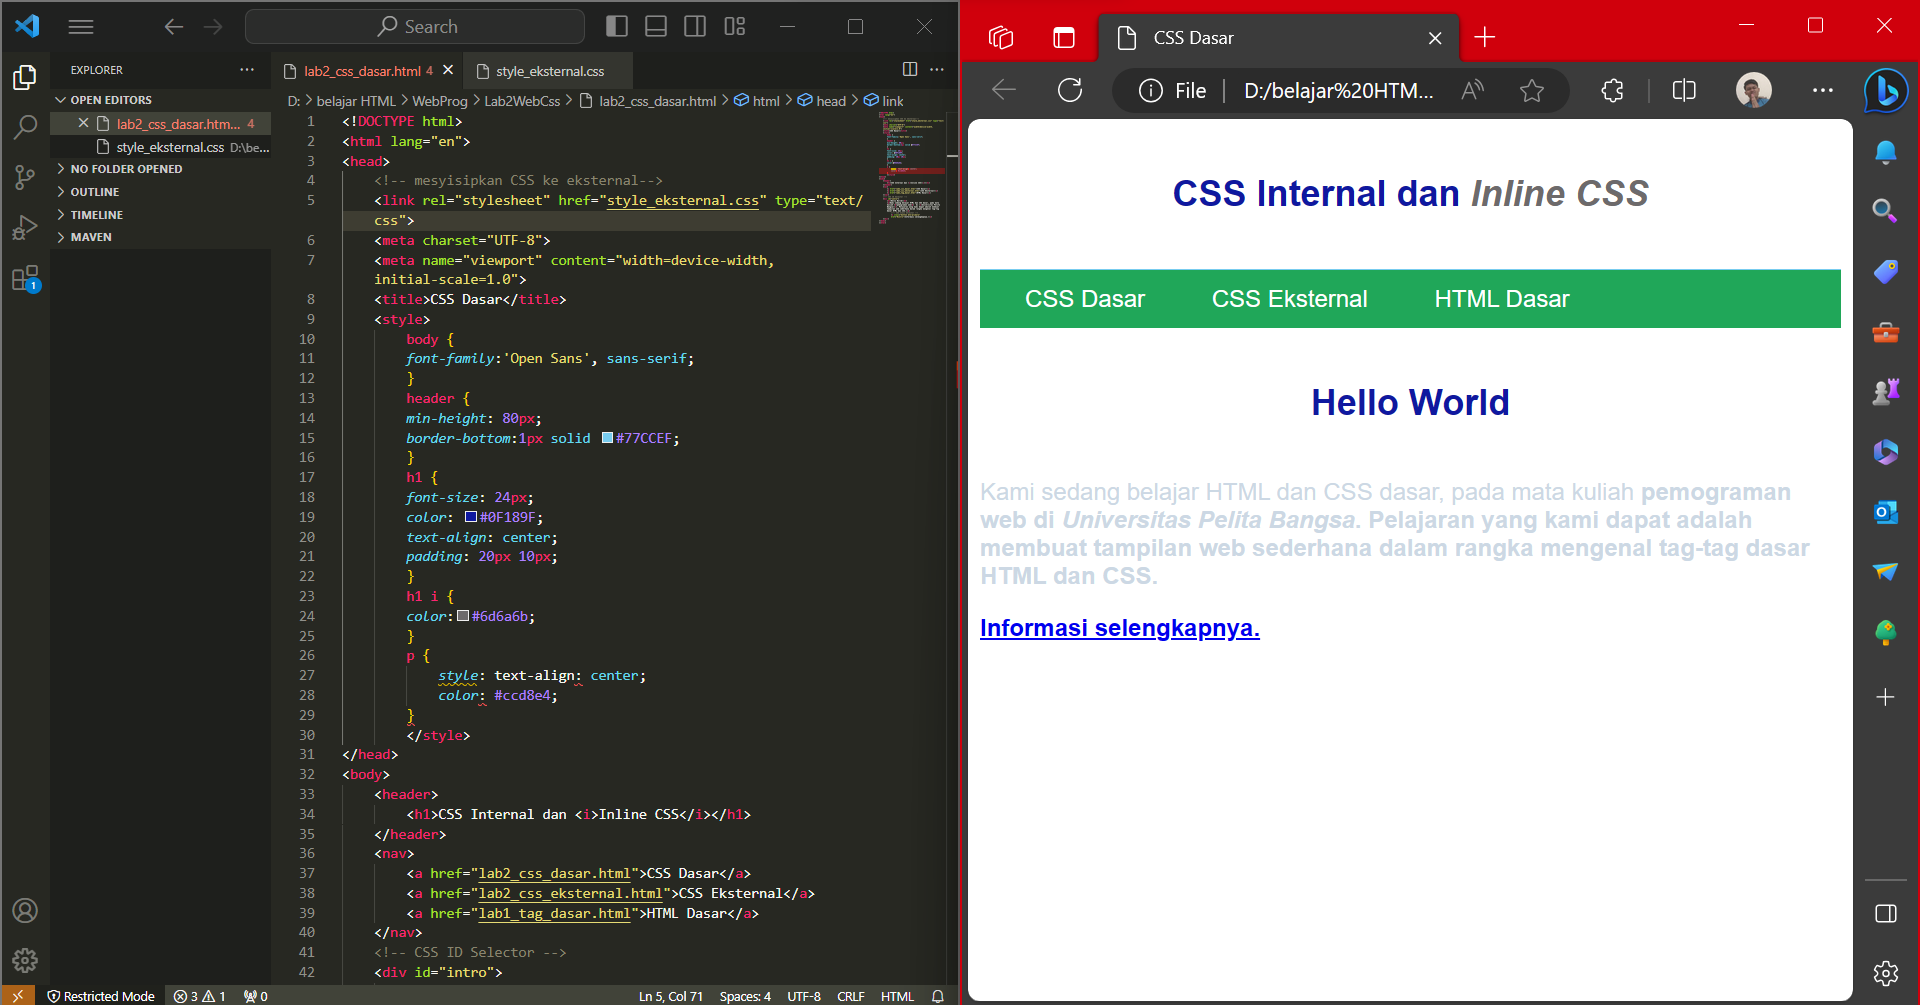
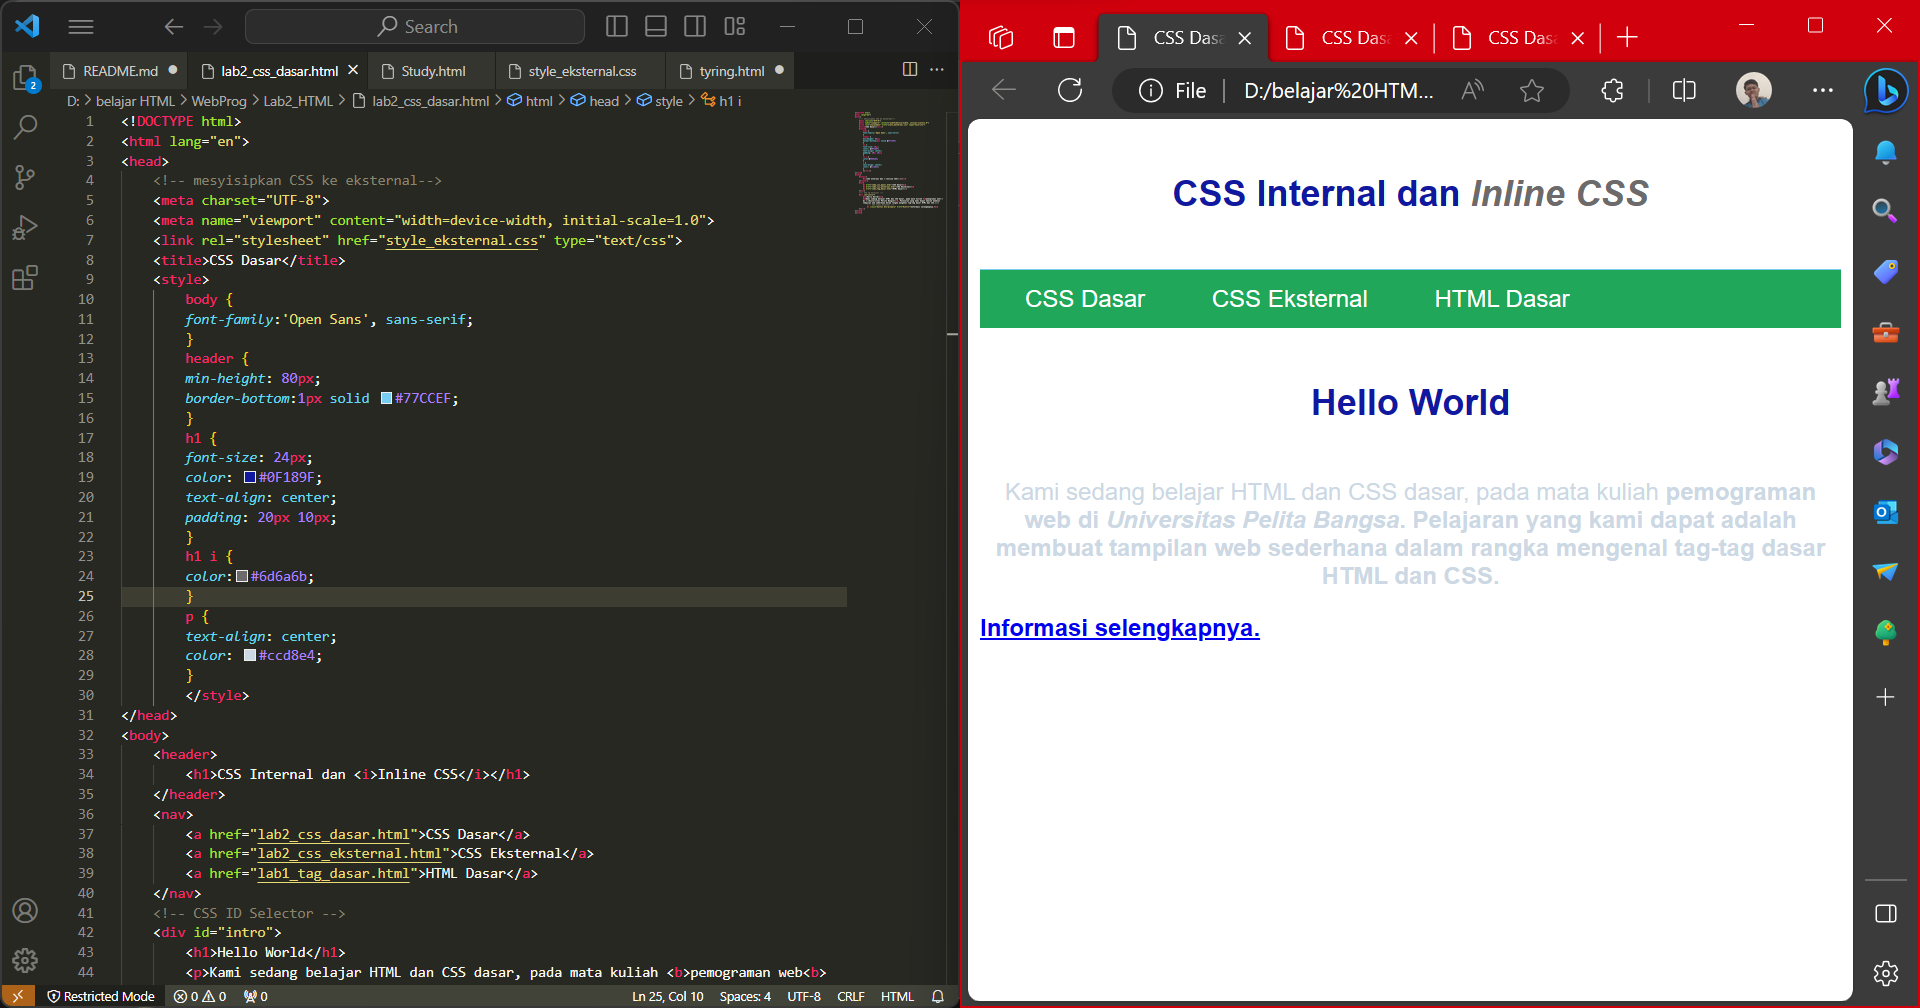
File Project

diff --git a/lab2_css_dasar.html b/lab2_css_dasar.html
@@ -2,9 +2,9 @@
 <html lang="en">
 <head>
     <!-- mesyisipkan CSS ke eksternal-->
-    <link rel="stylesheet" href="style_eksternal.css" type="text/css">
     <meta charset="UTF-8">
     <meta name="viewport" content="width=device-width, initial-scale=1.0">
+    <link rel="stylesheet" href="style_eksternal.css" type="text/css">
     <title>CSS Dasar</title>
     <style>
         body {
@@ -24,7 +24,7 @@
         color:#6d6a6b;
         }
         p { 
-        style: text-align: center; 
+        text-align: center; 
         color: #ccd8e4;
         }    
         </style>

diff --git a/Learning/Study.html b/Learning/Study.html
@@ -25,7 +25,7 @@
         color:#6d6a6b;
         }
         p { 
-        style: text-align: center; 
+        text-align: center; 
         color:  #ccd8e4;
         }    
         </style>
